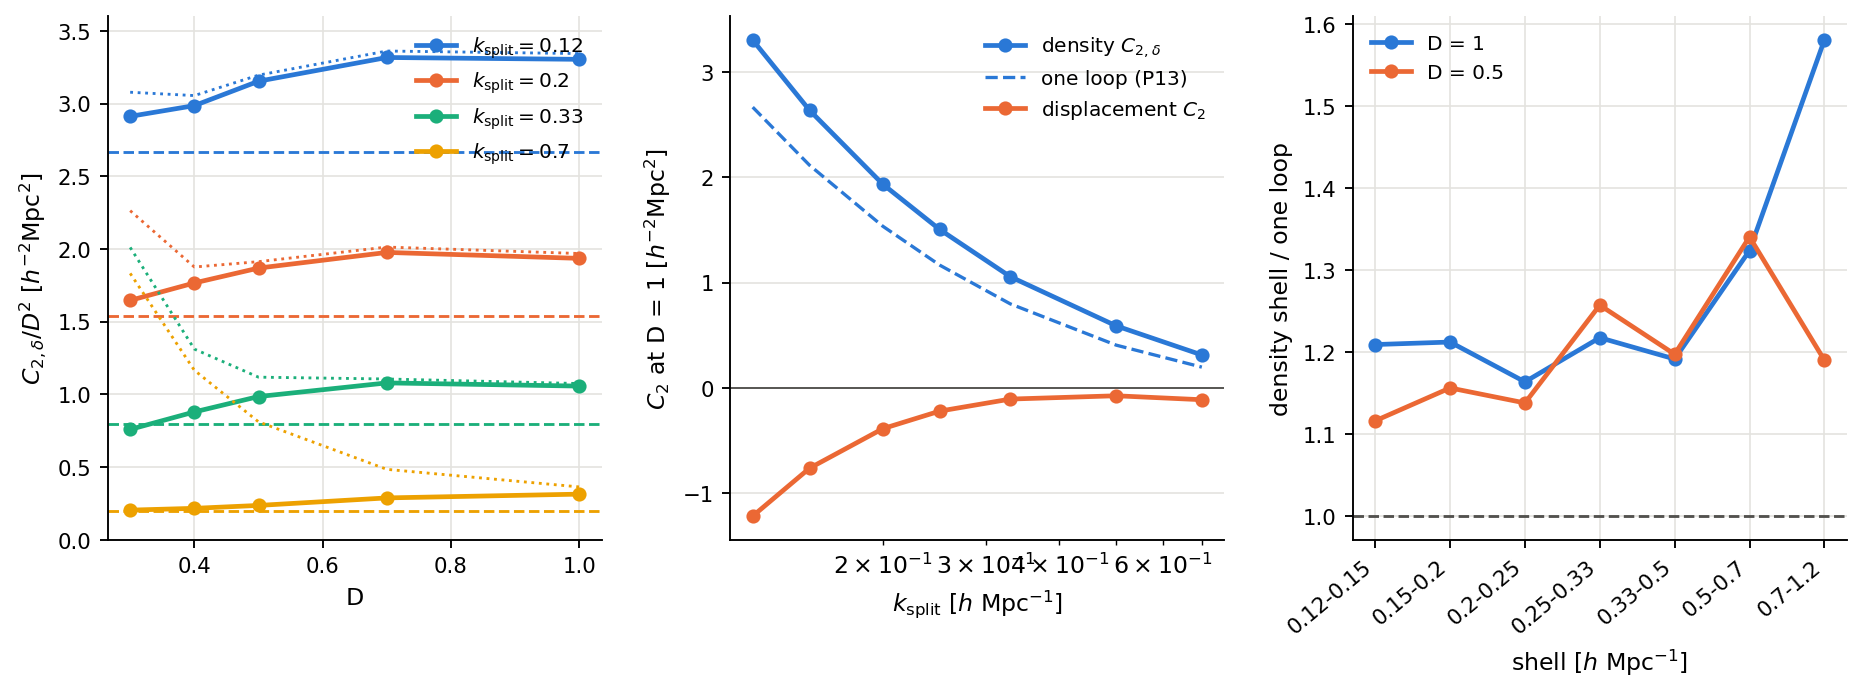
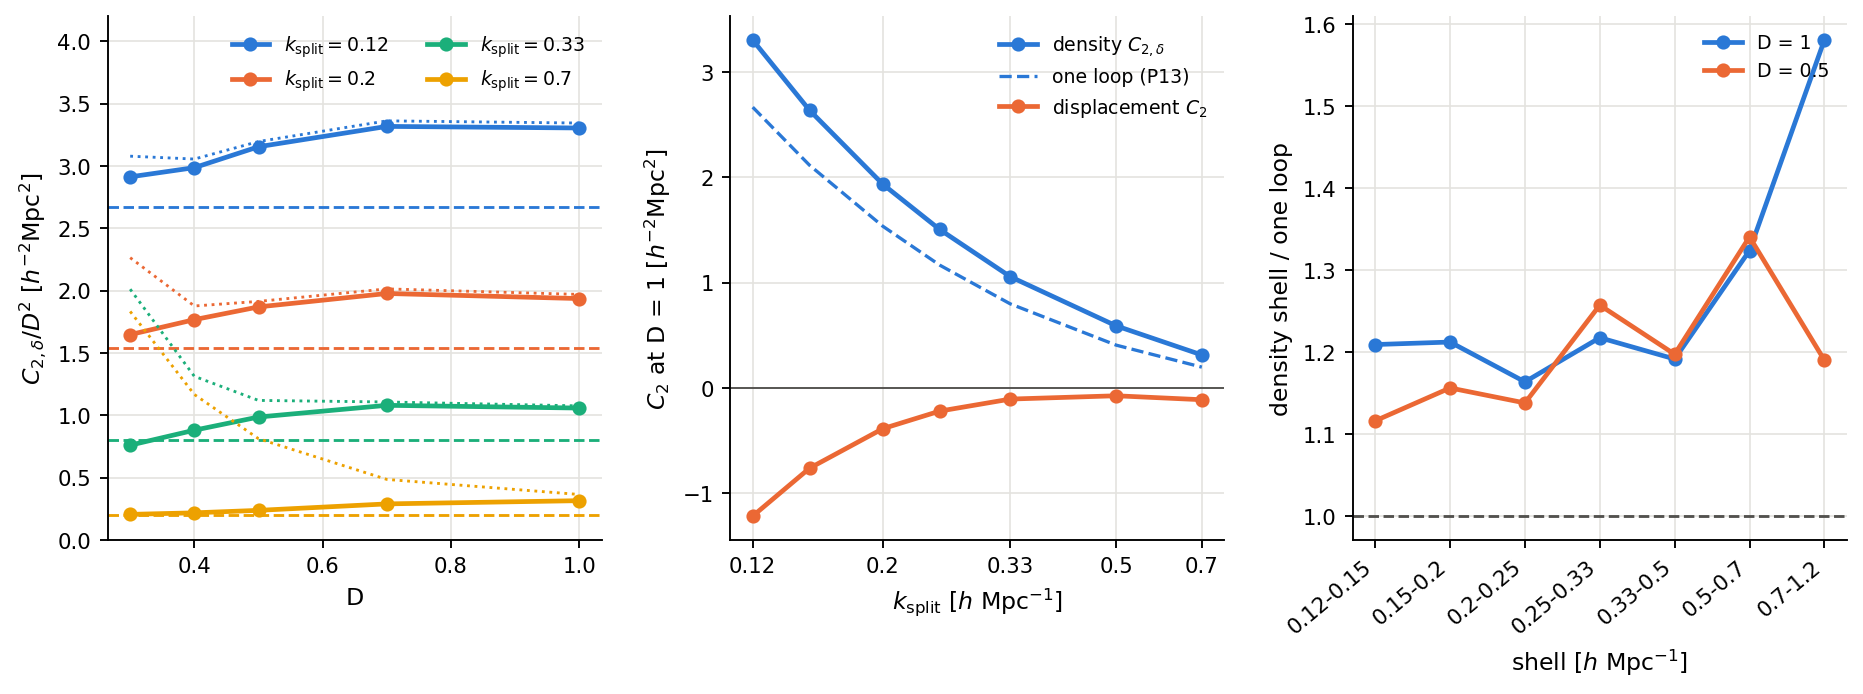
figP8: labels
Claude-Session: https://claude.ai/code/session_01DuepK14Yu6T8YEfTFdbtVH

diff --git a/studies/eft_shell_crossing/scripts/figures_density.py b/studies/eft_shell_crossing/scripts/figures_density.py
@@ -14,19 +14,19 @@ for (b, ks), col in zip(SP.items(), CAT):
     ax[0].plot(D, [x["C2d"] / x["D"] ** 2 for x in q], "o-", color=col, lw=2, ms=5, label=rf"$k_{{\rm split}} = {ks:g}$")
     ax[0].axhline(q[0]["oneloop"], color=col, lw=1.2, ls="--")
     ax[0].plot(D, [x["raw"] / x["D"] ** 2 for x in q], color=col, lw=1.2, ls=":")
-ax[0].set_ylim(0, 3.6); ax[0].set_xlabel("D"); ax[0].set_ylabel(r"$C_{2,\delta}/D^2$ [$h^{-2}$Mpc$^2$]")
+ax[0].set_ylim(0, 4.2); ax[0].set_xlabel("D"); ax[0].set_ylabel(r"$C_{2,\delta}/D^2$ [$h^{-2}$Mpc$^2$]")
 ks = [0.12, 0.15, 0.20, 0.25, 0.33, 0.50, 0.70]; names = ["prod_ks12", "prod_ks15", "prod_ks20", "prod_ks25", "prod_ks33", "prod_ks50", "prod_ks70"]
 g = lambda b, k: next(x[k] for x in r["corrected"] if x["band"] == b and x["D"] == 1.0)
 ax[1].plot(ks, [g(b, "C2d") for b in names], "o-", color=CAT[0], lw=2, ms=5, label=r"density $C_{2,\delta}$")
 ax[1].plot(ks, [g(b, "oneloop") for b in names], color=CAT[0], lw=1.4, ls="--", label="one loop (P13)")
 ax[1].plot(ks, [g(b, "psi") for b in names], "o-", color=CAT[1], lw=2, ms=5, label=r"displacement $C_{2}$")
-ax[1].axhline(0, color=INK, lw=0.8); ax[1].set_xscale("log"); ax[1].set_xlabel(r"$k_{\rm split}$ [$h$ Mpc$^{-1}$]"); ax[1].set_ylabel(r"$C_2$ at D = 1 [$h^{-2}$Mpc$^2$]")
+ax[1].axhline(0, color=INK, lw=0.8); ax[1].set_xscale("log"); ax[1].set_xticks([0.12, 0.2, 0.33, 0.5, 0.7]); ax[1].set_xticklabels(["0.12", "0.2", "0.33", "0.5", "0.7"]); ax[1].minorticks_off(); ax[1].set_xlabel(r"$k_{\rm split}$ [$h$ Mpc$^{-1}$]"); ax[1].set_ylabel(r"$C_2$ at D = 1 [$h^{-2}$Mpc$^2$]")
 sh = [x for x in r["shells"] if x["D"] == 1.0]; lab = [f"{x['lo']:g}-{x['hi']:g}" for x in sh]
 ax[2].plot(range(len(sh)), [x["C2d"] / x["oneloop"] for x in sh], "o-", color=CAT[0], lw=2, ms=5, label="D = 1")
 sh5 = [x for x in r["shells"] if x["D"] == 0.5]; ax[2].plot(range(len(sh5)), [x["C2d"] / x["oneloop"] for x in sh5], "o-", color=CAT[1], lw=2, ms=5, label="D = 0.5")
 ax[2].axhline(1, color=INK, ls="--", lw=1.2); ax[2].set_xticks(range(len(sh))); ax[2].set_xticklabels(lab, rotation=40, ha="right", fontsize=8); ax[2].set_xlabel(r"shell [$h$ Mpc$^{-1}$]"); ax[2].set_ylabel("density shell / one loop")
 for a in ax:
-    a.grid(True, which="major", color="#e4e3df", lw=0.7); a.set_axisbelow(True); a.tick_params(labelsize=9); a.legend(frameon=False, fontsize=8.5)
+    a.grid(True, which="major", color="#e4e3df", lw=0.7); a.set_axisbelow(True); a.tick_params(labelsize=9); a.legend(frameon=False, fontsize=8, ncol=2 if a is ax[0] else 1, loc="upper right")
     for sp in ("top", "right"): a.spines[sp].set_visible(False)
 for ext in ("png", "pdf"): fig.savefig(os.path.join(H, "..", "figures", f"figP8_density_response.{ext}"), dpi=170, bbox_inches="tight")
 print("wrote figP8")
